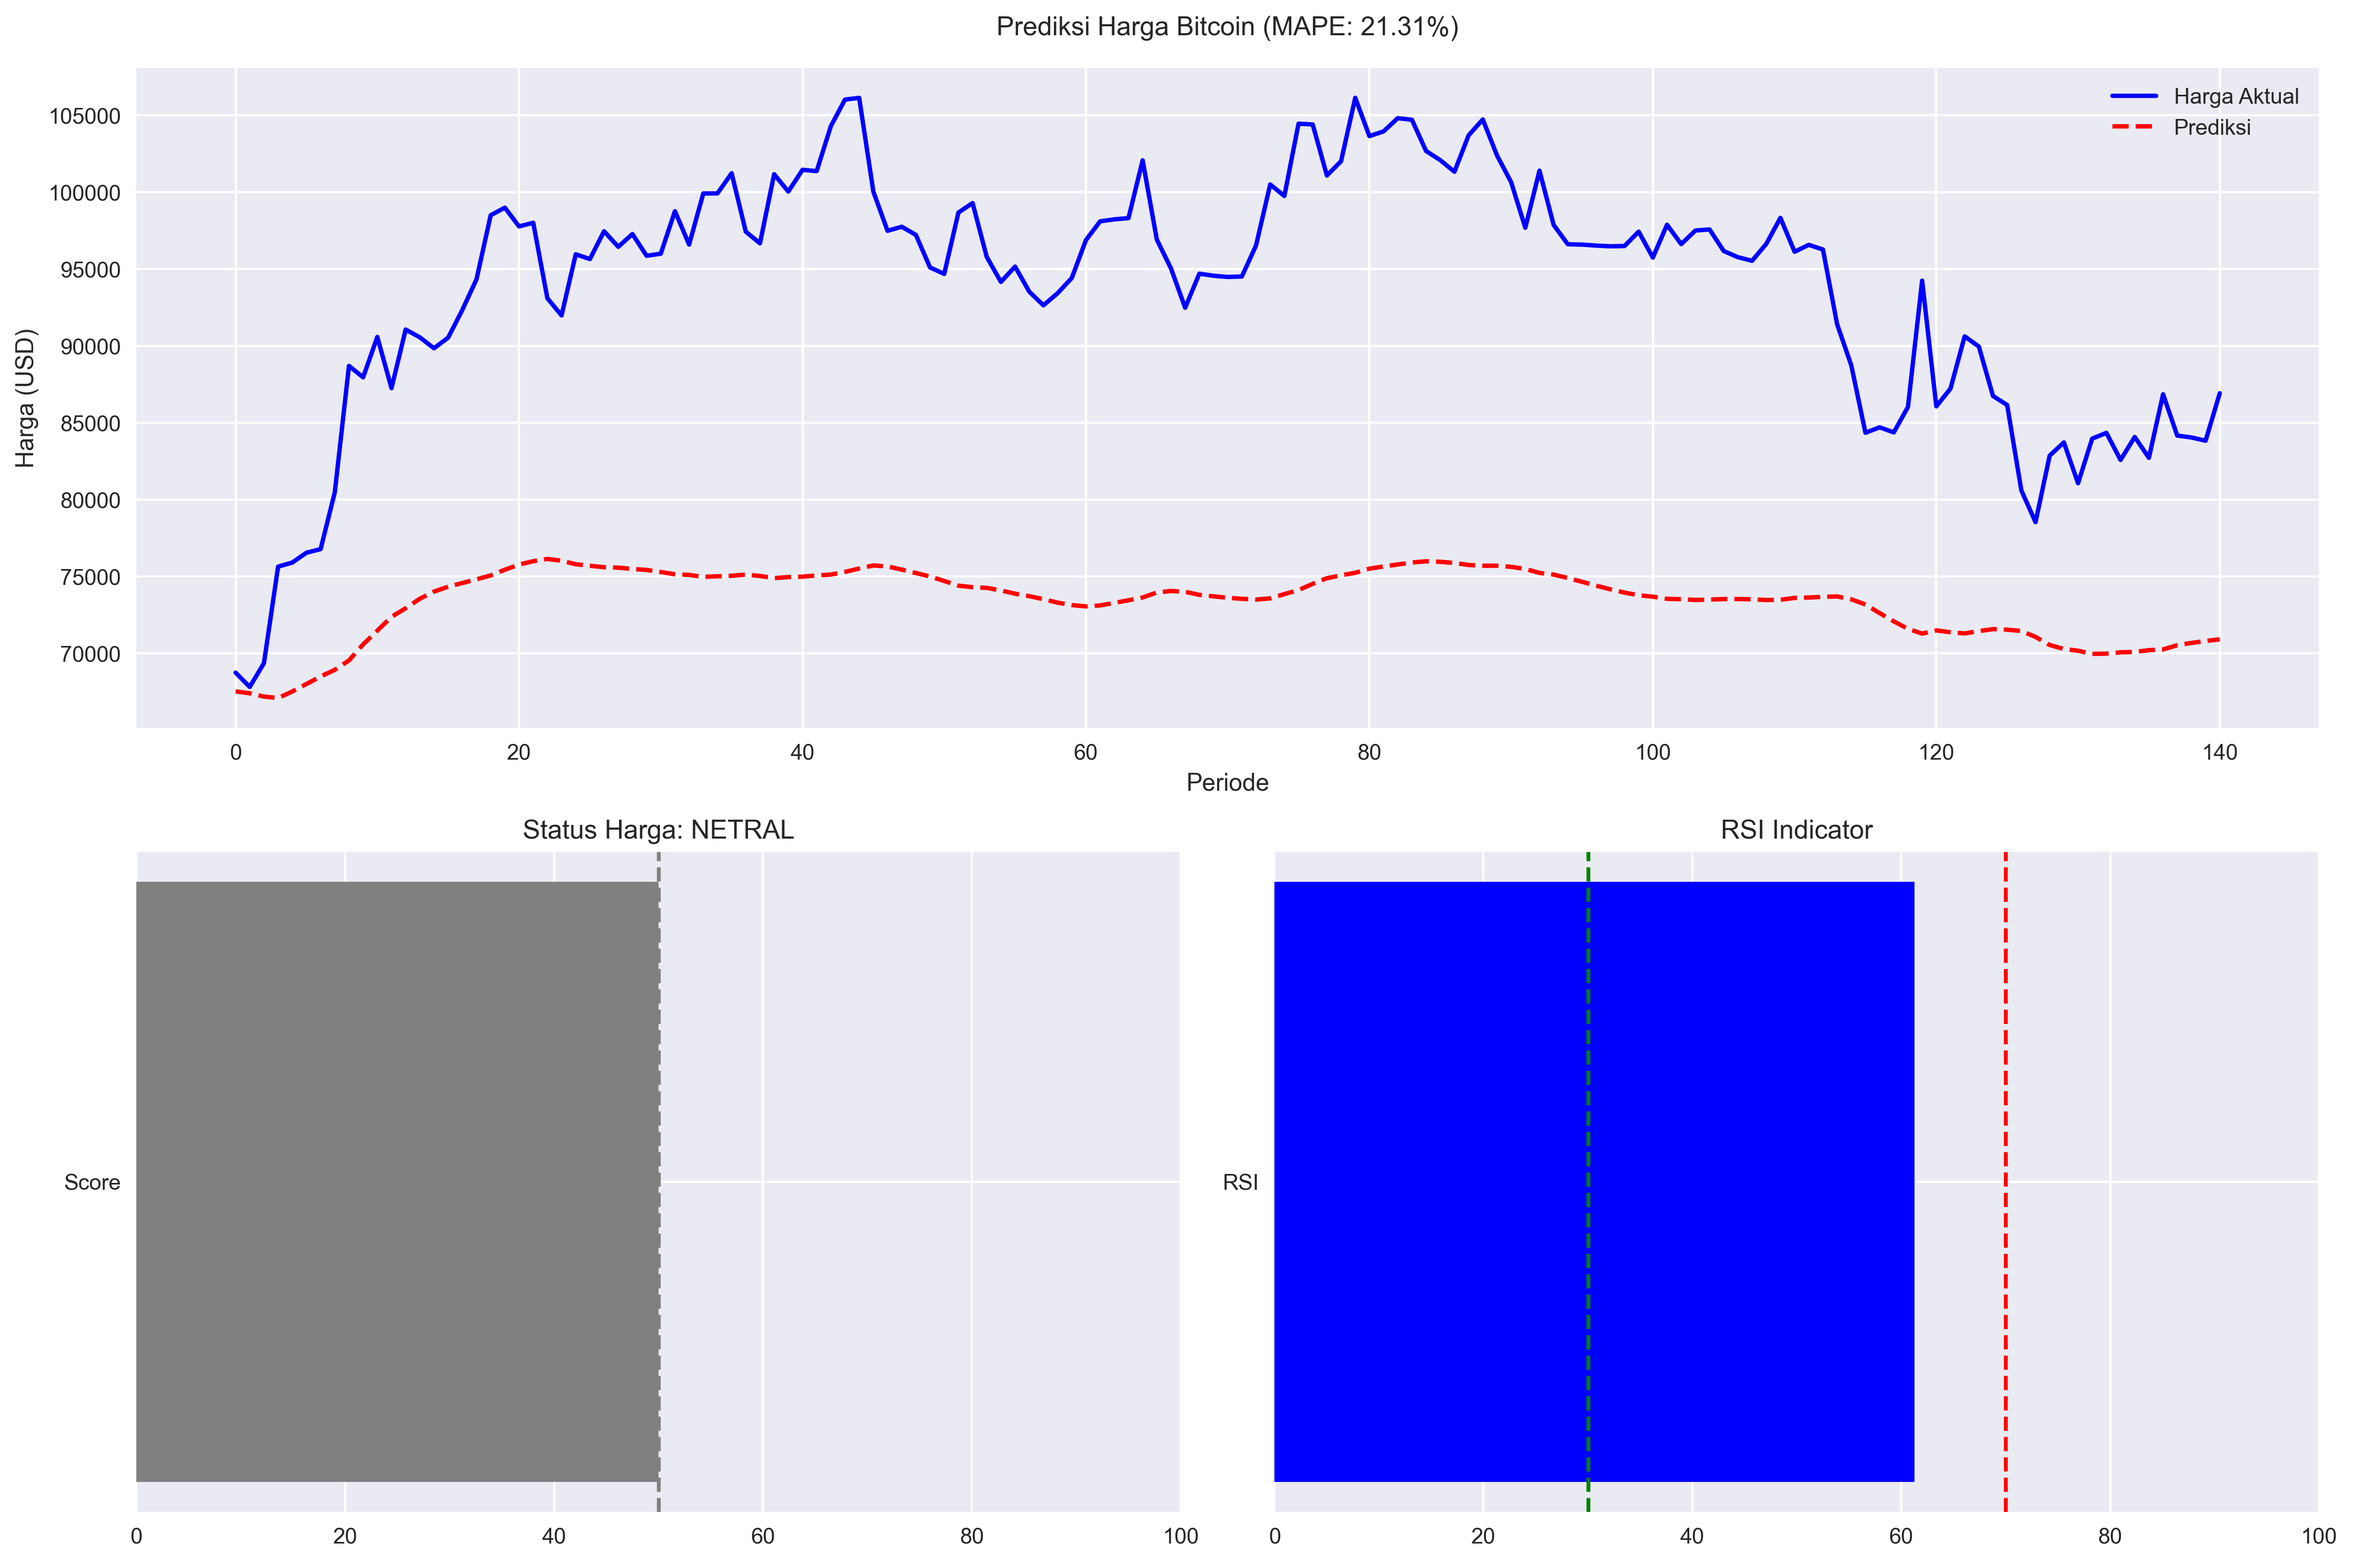
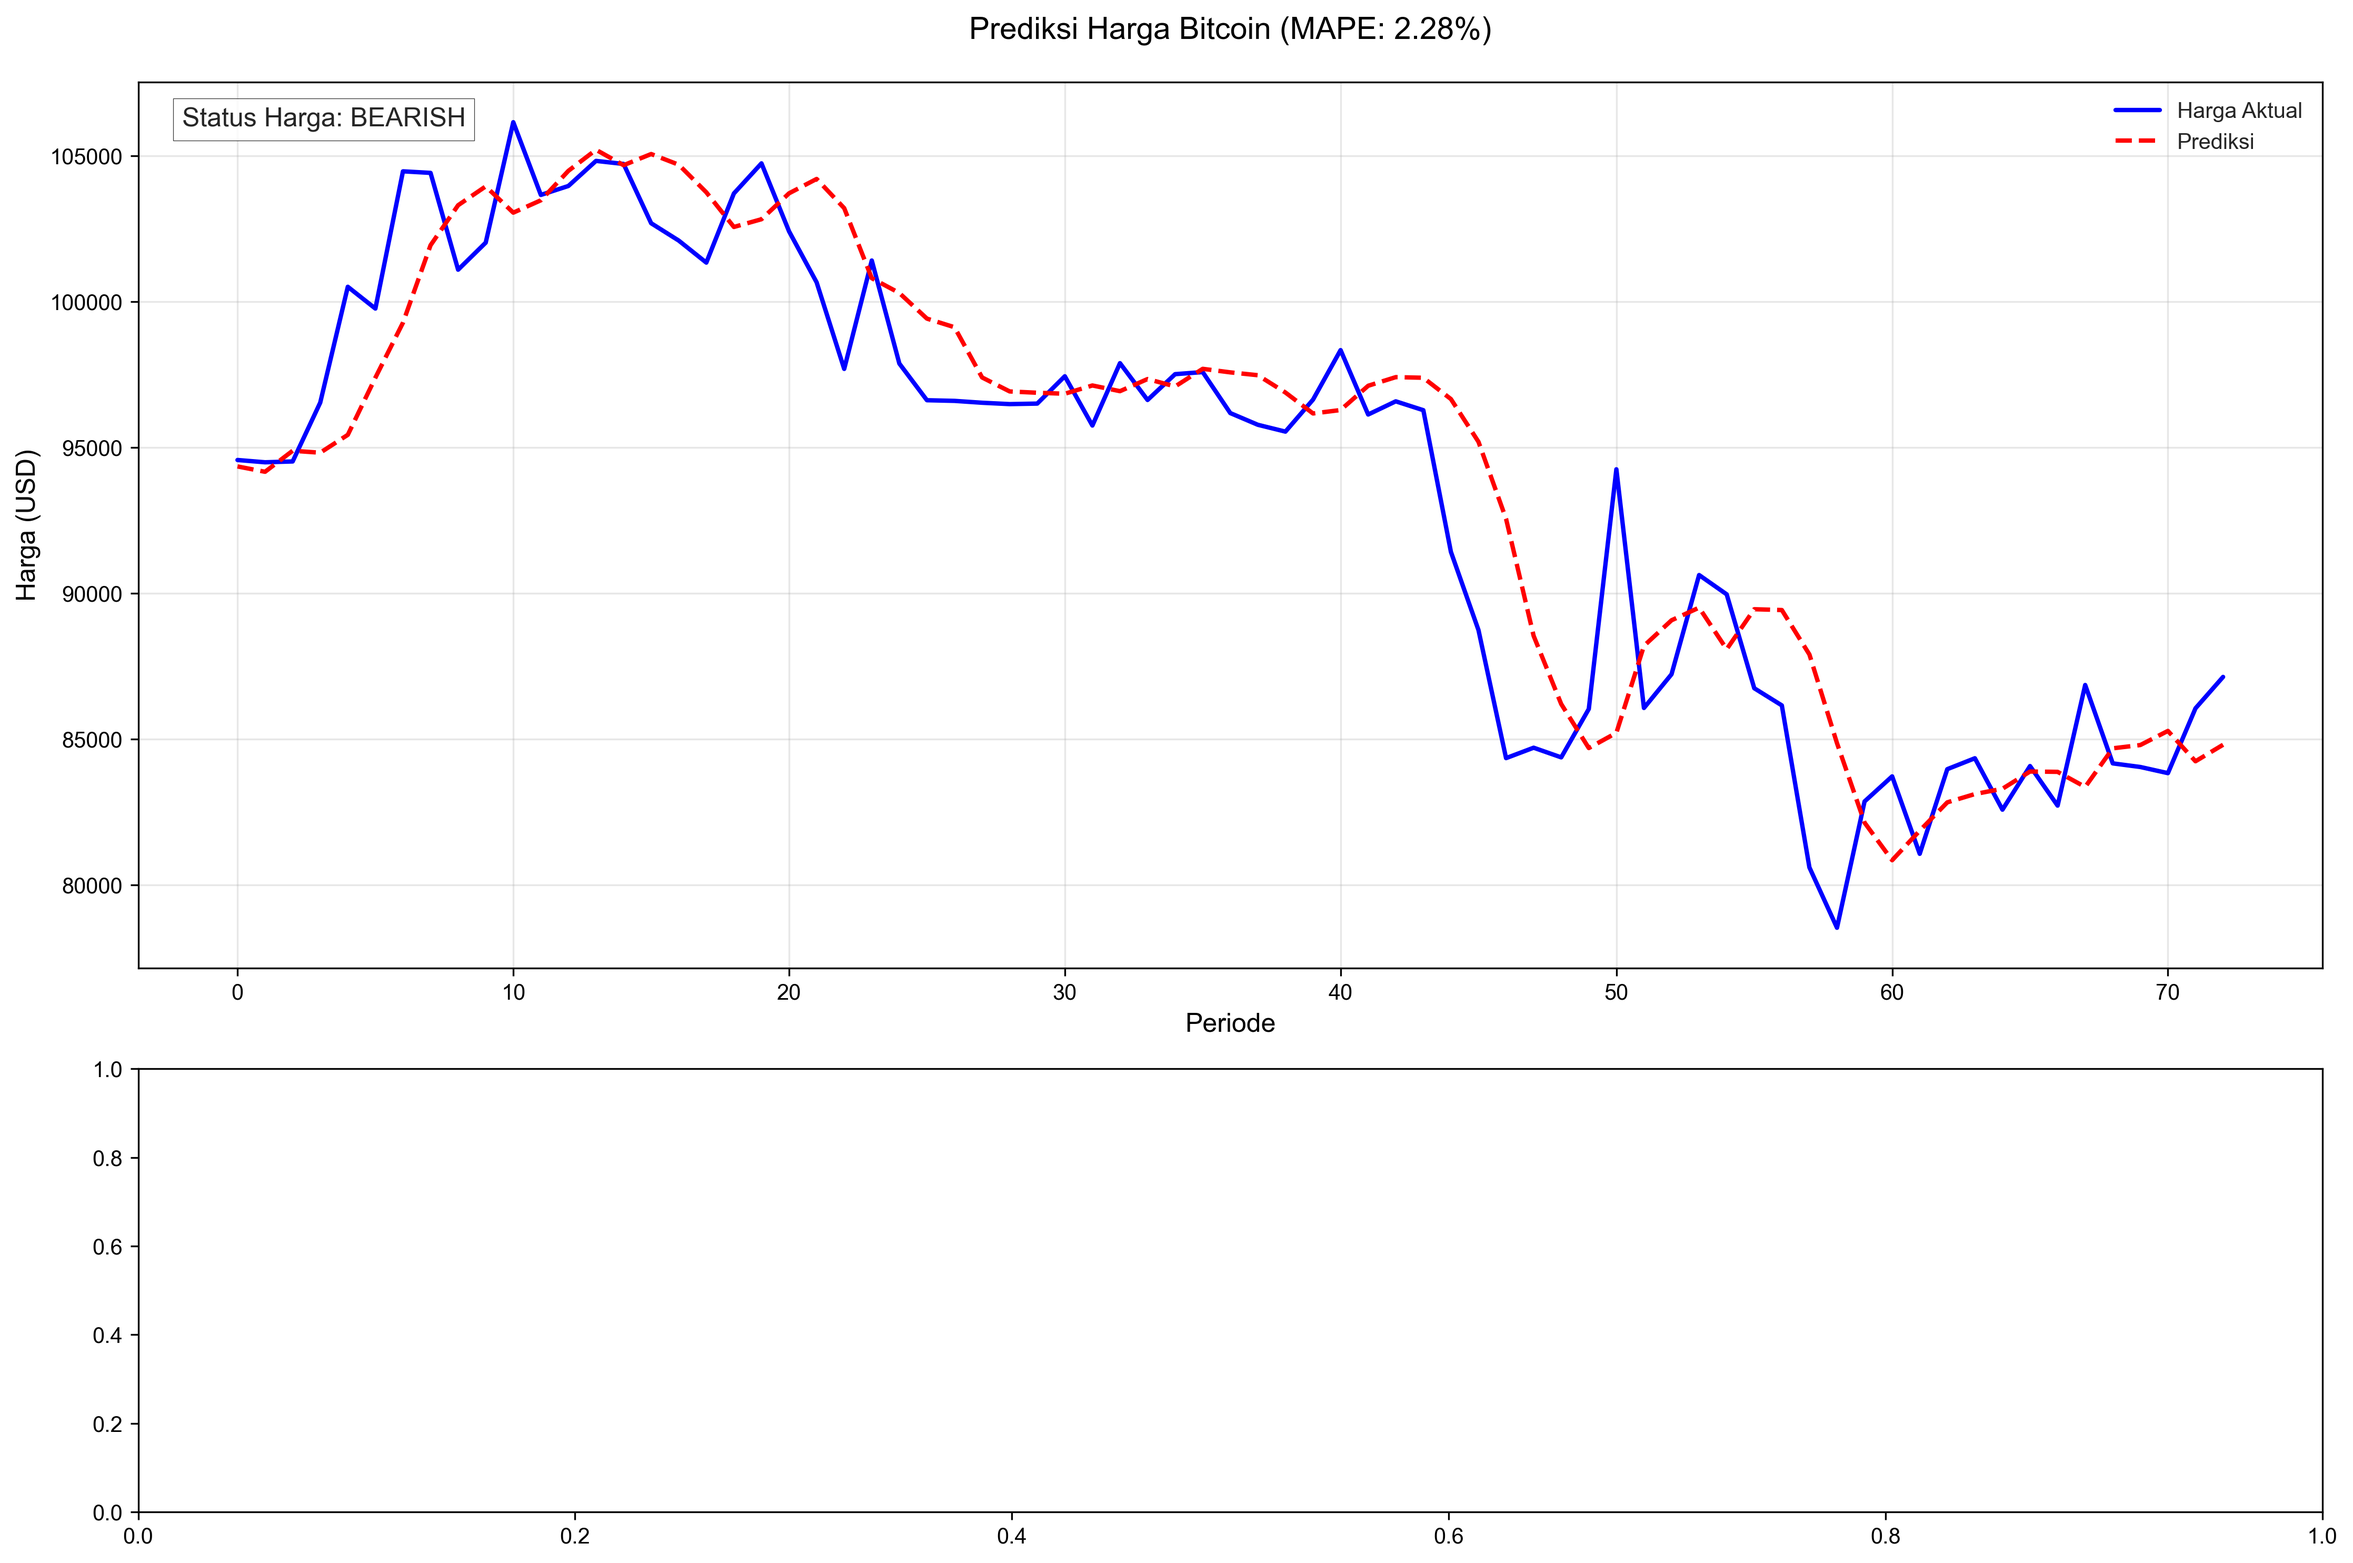
Add Visual

diff --git a/src/main.py b/src/main.py
@@ -5,6 +5,8 @@ from sklearn.preprocessing import MinMaxScaler
 import pandas as pd
 import yfinance as yf
 from datetime import datetime, timedelta
+import matplotlib.pyplot as plt
+import seaborn as sns
 
 def evaluate_predictions(actual, predictions):
     """
@@ -98,25 +100,97 @@ def calculate_atr(df, period=14):
     
     return true_range.rolling(period).mean()
 
+def plot_predictions(actual, predicted, save_path='analysis_results.png'):
+    """
+    Membuat visualisasi hasil prediksi yang lebih baik
+    """
+    # Buat figure dengan 2 subplot
+    fig, (ax1, ax2) = plt.subplots(2, 1, figsize=(15, 10), height_ratios=[2, 1])
+    
+    # Set style
+    plt.style.use('seaborn')
+    
+    # Plot harga di subplot pertama
+    ax1.plot(actual, label='Harga Aktual', color='blue', linewidth=2)
+    ax1.plot(predicted, label='Prediksi', color='red', linestyle='--', linewidth=2)
+    
+    # Customize plot harga
+    ax1.set_title(f'Prediksi Harga Bitcoin (MAPE: {calculate_mape(actual, predicted):.2f}%)', 
+                  fontsize=14, pad=20)
+    ax1.set_xlabel('Periode', fontsize=12)
+    ax1.set_ylabel('Harga (USD)', fontsize=12)
+    ax1.grid(True, alpha=0.3)
+    ax1.legend(fontsize=10)
+    
+    # Tambahkan status harga
+    last_actual = actual[-1]
+    last_pred = predicted[-1]
+    status = "NETRAL"
+    if last_pred > last_actual * 1.01:
+        status = "BULLISH"
+    elif last_pred < last_actual * 0.99:
+        status = "BEARISH"
+    
+    # Tambahkan text status
+    ax1.text(0.02, 0.95, f'Status Harga: {status}',
+             transform=ax1.transAxes,
+             fontsize=12,
+             bbox=dict(facecolor='white', alpha=0.8))
+    
+    # Adjust layout
+    plt.tight_layout()
+    
+    # Save plot
+    plt.savefig(save_path, dpi=300, bbox_inches='tight')
+    print(f"\nVisualisasi disimpan di '{save_path}'")
+    
+    # Close plot untuk menghemat memori
+    plt.close()
+
+def calculate_mape(actual, predicted):
+    """
+    Menghitung MAPE
+    """
+    return np.mean(np.abs((actual - predicted) / actual)) * 100
+
+def calculate_rsi(prices, periods=14):
+    """
+    Menghitung Relative Strength Index
+    """
+    deltas = np.diff(prices)
+    seed = deltas[:periods+1]
+    up = seed[seed >= 0].sum()/periods
+    down = -seed[seed < 0].sum()/periods
+    rs = up/down
+    rsi = np.zeros_like(prices)
+    rsi[:periods] = 100. - 100./(1. + rs)
+    
+    for i in range(periods, len(prices)):
+        delta = deltas[i - 1]
+        if delta > 0:
+            upval = delta
+            downval = 0.
+        else:
+            upval = 0.
+            downval = -delta
+            
+        up = (up*(periods - 1) + upval)/periods
+        down = (down*(periods - 1) + downval)/periods
+        rs = up/down
+        rsi[i] = 100. - 100./(1. + rs)
+        
+    return rsi
+
 def main():
     try:
         print("\nMemulai analisis cryptocurrency...\n")
         
-        # Load data
-        print("1. Mengambil data...")
+        # Load dan prepare data
         df = load_data()
-        
-        if df is None or df.empty:
-            raise ValueError("Tidak bisa mendapatkan data cryptocurrency")
-        
-        # Prepare data
-        print("\n2. Mempersiapkan data...")
         close_prices = df['Close'].values.reshape(-1, 1)
         
-        # Initialize predictor
+        # Initialize dan train model
         predictor = CryptoPredictor()
-        
-        # Prepare sequences
         X, y = predictor.prepare_sequences(close_prices)
         
         # Split data
@@ -126,21 +200,19 @@ def main():
         y_train = y[:train_size]
         y_test = y[train_size:]
         
-        # Build and train model
-        print("\n3. Melatih model...")
+        # Train model
         predictor.build_model((predictor.seq_length, 1))
         predictor.train(X_train, y_train)
         
         # Make predictions
-        print("\n4. Melakukan prediksi...")
         y_pred = predictor.model.predict(X_test, verbose=0)
         
-        # Inverse transform predictions
+        # Inverse transform
         y_test_actual = predictor.scaler.inverse_transform(y_test.reshape(-1, 1))
         y_pred_actual = predictor.scaler.inverse_transform(y_pred)
         
         # Calculate MAPE
-        mape = np.mean(np.abs((y_test_actual - y_pred_actual) / y_test_actual)) * 100
+        mape = calculate_mape(y_test_actual, y_pred_actual)
         print(f"\nHasil MAPE: {mape:.2f}%")
         
         # Save predictions
@@ -149,15 +221,20 @@ def main():
             'Predicted': y_pred_actual.flatten()
         })
         results.to_csv('predictions.csv', index=False)
-        print("\nHasil prediksi disimpan di 'predictions.csv'")
+        
+        # Create visualization
+        plot_predictions(
+            actual=results['Actual'].values,
+            predicted=results['Predicted'].values
+        )
         
         print("\nSelesai!")
         return True
         
     except Exception as e:
-        print(f"\nTerjadi error dalam program utama:")
-        print(f"Error type: {type(e).__name__}")
-        print(f"Error message: {str(e)}")
+        print(f"\nTerjadi error:")
+        print(f"Type: {type(e).__name__}")
+        print(f"Message: {str(e)}")
         return False
 
 if __name__ == "__main__":
